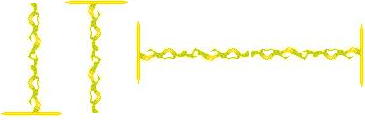
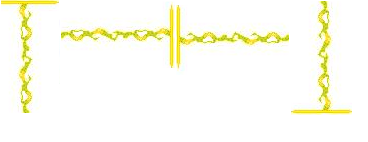
magic animations

Changed region(s): [[0.0, 0.0, 1.0, 0.9669]]

diff --git a/static/draw.js b/static/draw.js
@@ -21,12 +21,17 @@ function drawMap() {
 		for (var j = 0; j < width; j++) {
 			var tile = map[i][j];
 			var img = getTileImage(tile.type);
-			ctx.drawImage(img, j*tileSize, i*tileSize);
 			if (tile.special === "scorespot") {
-				//i dunno can we make the square tinted and glow red or something?
+				ctx.globalAlpha = 1;
+				ctx.drawImage(img, j*tileSize, i*tileSize);
+			}
+			else {
+				ctx.globalAlpha = 0.8;
+				ctx.drawImage(img, j*tileSize, i*tileSize);
 			}
 		}
 	}
+	ctx.globalAlpha = 1;
 }
 
 function getTileImage(type) {
@@ -43,18 +48,40 @@ function getTileImage(type) {
 }
 
 function drawCharacters() {
-	for (var i = 0; i < p1charList.length; i++) {
-		var character = p1charList[i];
+	var cList = (playerNumber == 1) ? p1charList: p2charList;
+	var other = (playerNumber == 1) ? p2charList: p1charList;
+	
+	for (var i = 0; i < other.length; i++) {
+		var character = other[i];
+		if (!isDead(character)) {
+			var ci = index[character.type];
+			ctx.drawImage(character.img, 
+				sXList[character.type][0], sYList[character.type][0],
+				widthList[character.type][0], heightList[character.type][0],
+				character.x*tileSize, character.y*tileSize,
+				tileSize, tileSize);
+		}
+		else {
+			//character is dead :(
+			ctx.drawImage(graveImg, 
+				character.x*tileSize, character.y*tileSize,
+				tileSize, tileSize);
+		}
+	}
+
+	for (var i = 0; i < cList.length; i++) {
+		var character = cList[i];
 		if (!isDead(character)) {
 			var ci = index[character.type];
 			
+			//console.log(character.direction);
 			ctx.drawImage(character.img, 
-				sXList[character.type][0], 
-				sYList[character.type][0],
-				widthList[character.type][0], 
-				heightList[character.type][0],	
-				character.x*tileSize, character.y*tileSize,
-				tileSize, tileSize);
+					sXList[character.type][0], 
+					sYList[character.type][character.direction],
+					widthList[character.type][0], 
+					heightList[character.type][0],	
+					character.x*tileSize, character.y*tileSize,
+					tileSize, tileSize);
 
 			if (animationFlag){
 				if (animation === "fireball") {
@@ -75,13 +102,10 @@ function drawCharacters() {
 				} else if (animation === "lightning") {
 					if (spell_flag < 100) {
 						ctx.drawImage(lightningImg, 
-						lightningsX[0], 
-						lightningsY[0],
-						lightningWidth, 
-						lightningHeight,	
-						character.x*tileSize, character.y*tileSize,
-						(spell_x-character.x)*tileSize, 
-						(spell_y-character.y)*tileSize);
+						lightningsX[3], lightningsY[3],
+						lightningWidth[3], lightningHeight[3],	
+						spell_x*tileSize, (spell_y+1)*tileSize,
+						tileSize, (character.y-spell_y-1)*tileSize);
 						spell_flag++;
 					}
 					else {
@@ -89,8 +113,6 @@ function drawCharacters() {
 						animationFlag = false;		
 					}
 				} 
-				
-				p1charList[i] = character;	
 			}
 		} else {
 			//character is dead :(
@@ -100,26 +122,6 @@ function drawCharacters() {
 		}
 	}
 	
-	//a bit redundant code but in case we ever have asymmetry between
-	//team sizes or whatnot
-	//or perhaps coloring character types differently based on team? 
-	for (var i = 0; i < p2charList.length; i++) {
-		var character = p2charList[i];
-		if (!isDead(character)) {
-			var ci = index[character.type];
-			ctx.drawImage(character.img, 
-				sXList[character.type][0], sYList[character.type][0],
-				widthList[character.type][0], heightList[character.type][0],
-				character.x*tileSize, character.y*tileSize,
-				tileSize, tileSize);
-		}
-		else {
-			//character is dead :(
-			ctx.drawImage(graveImg, 
-				character.x*tileSize, character.y*tileSize,
-				tileSize, tileSize);
-		}
-	}
 }
 
 function drawCursor() {	

diff --git a/static/eventHandlers.js b/static/eventHandlers.js
@@ -1,5 +1,6 @@
 var currentMovePoints = -1;
 var sel_spell;
+var dir, tempdir;
 
 function onKeyUp(event) {
 	if (event.keyCode === 65) { //a
@@ -266,6 +267,7 @@ function keyDownMove(e) {
 		key_pressed["left"] = true;
 		key_pressed.time = 0;
 		if (cursor.x > 0) {
+			tempdir = 1;
 			cursor.x--;
 		} else { 
 			return;
@@ -275,6 +277,7 @@ function keyDownMove(e) {
 		key_pressed["right"] = true;
 		key_pressed.time = 0;
 		if (cursor.x < width - 1) {
+			tempdir = 2;
 			cursor.x++;
 		} else {
 			return;
@@ -284,6 +287,7 @@ function keyDownMove(e) {
 		key_pressed["up"] = true;
 		key_pressed.time = 0;
 		if (cursor.y > 0) {
+			tempdir = 3;
 			cursor.y--;
 		} else {
 			return;
@@ -293,11 +297,13 @@ function keyDownMove(e) {
 		key_pressed["down"] = true;
 		key_pressed.time = 0;
 		if (cursor.y < height-1) {
+			tempdir = 0;
 			cursor.y++;
 		} else {
 			return;
 		}
 	} else if (e === 32) { //space
+		currentChar.direction = dir;
 		map[currentChar.y][currentChar.x].character = null;
 		currentChar.x = cursor.x;
 		currentChar.y = cursor.y;
@@ -326,7 +332,6 @@ function keyDownMove(e) {
 		console.log("i is : " + i);
 		var templist = listPath.slice(i+1, listPath.length);
 		listPath.splice(i+1,(listPath.length - i));
-		console.log(templist);
 		for (var j = 0; j < templist.length; j++) {
 			var arrayTuple = templist[j].split(",");
 			var tx = arrayTuple[1] - 0;
@@ -338,6 +343,7 @@ function keyDownMove(e) {
 	} else {
 		tile = map[cursor.y][cursor.x];
 		if (isValidMove(tile)) {
+			dir = tempdir;
 			listPath.push("" + cursor.y + "," + cursor.x);
 			currentChar.movePoints -= terrainDict[tile.type].moveCost;
 		} else {

diff --git a/static/constants.js b/static/constants.js
@@ -102,7 +102,7 @@ var sXList = {"warrior":[0, 30, 60],
 				"mage":[0, 30, 60]
 			};
 var sYList = {"warrior":[0,35,70,105], 
-				"archer":[0,45,85,125],
+				"archer":[0,45,85,123],
 				"mage":[0,35,70,105]
 			};
 var widthList = {"warrior":[30,30,30], 
@@ -238,10 +238,10 @@ var fireballHeight = 30;
 var lightningImg;
 lightningImg = new Image();
 lightningImg.src = "images/lightning.png";
-var lightningsX = [0,30,60];
-var lightningsY = [0,30,60,90];
-var lightningWidth = 60;
-var lightningHeight = 117;
+var lightningsX = [0,60,175,290];
+var lightningsY = [0,5,5,0];
+var lightningWidth = [60, 115, 115, 60];
+var lightningHeight = [115, 60, 60, 115];
 
 
 /* END MAGIC CONSTANTS */

diff --git a/static/character.js b/static/character.js
@@ -27,6 +27,7 @@ function newCharacter(data) {
 	character.player = data.player;
 	character.type = type; //used for animation purposes, i guess?
 	character.index = data.index;
+	character.direction = character.player*3; // 0:front, 1: left, 2:right, 3: back
 	
   if (character.type === "mage") {
     character.mana = maxMana;
